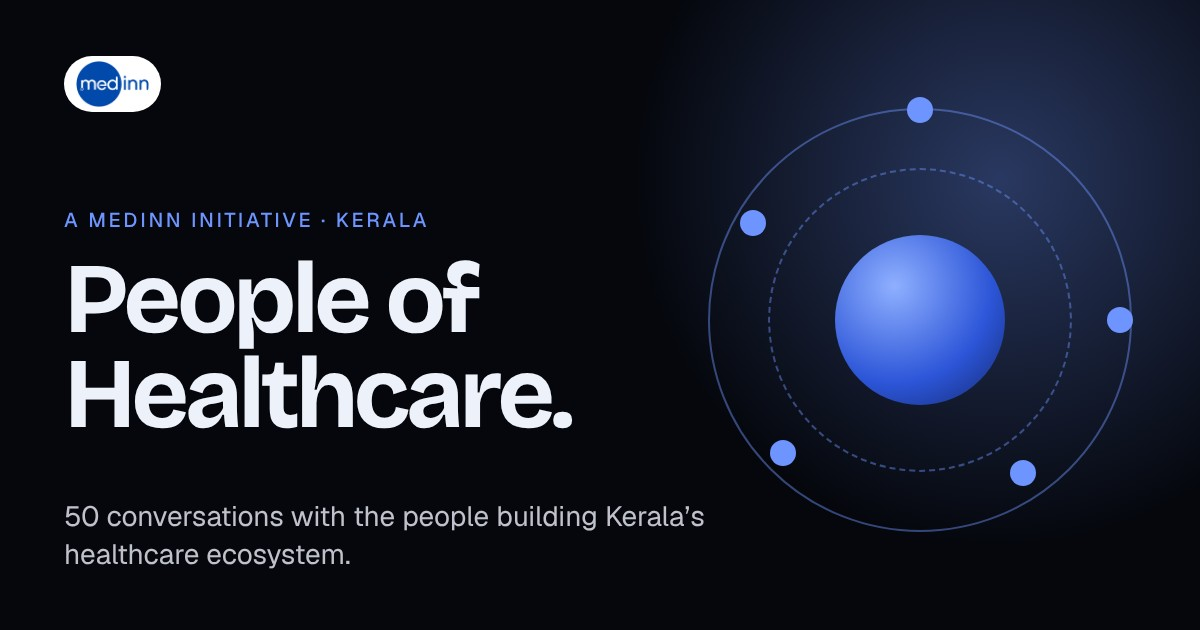
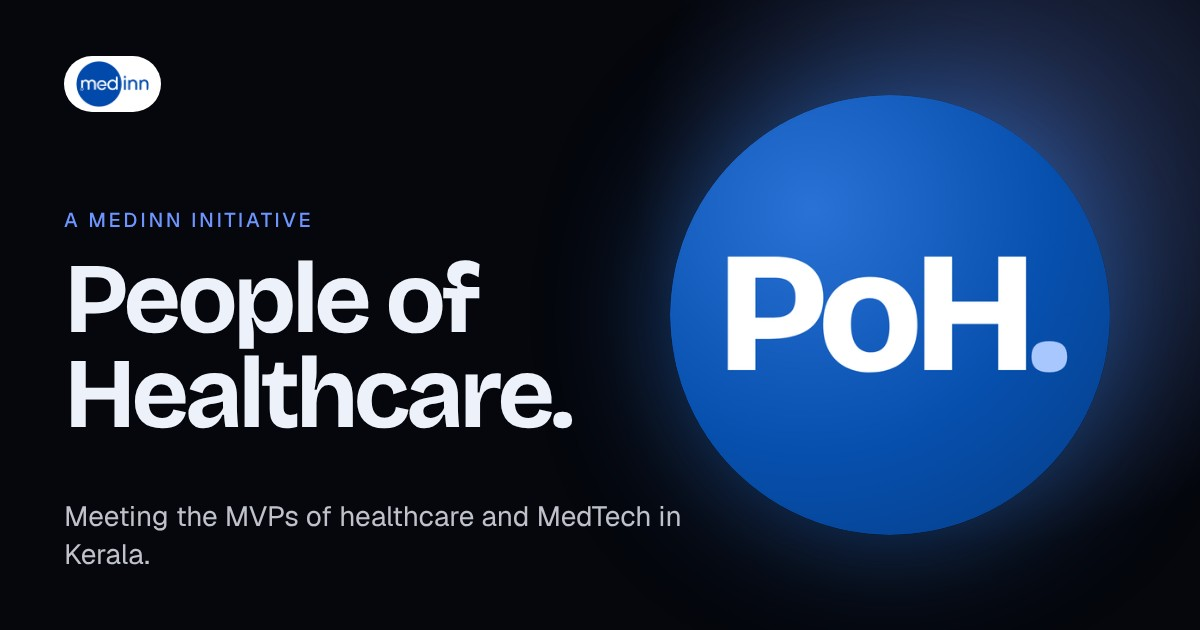
People of Healthcare: PoH monogram in Medinn colours, initiative-only header, real events in sections
Claude-Session: https://claude.ai/code/session_01W3TbEA9HA6hJVcBjfhZxyg

Changed region(s): [[0.0617, 0.0905, 0.9558, 0.9349], [0.2775, 0.3317, 0.37, 0.3619]]

diff --git a/people-of-healthcare.html b/people-of-healthcare.html
@@ -14,7 +14,7 @@
 <meta property="og:image:height" content="630">
 <meta property="og:type" content="article">
 <meta name="twitter:card" content="summary_large_image">
-<link rel="icon" href="medinn-logo.png">
+<link rel="icon" href="poh-mark.png">
 <link rel="preload" href="bricolage.woff2" as="font" type="font/woff2" crossorigin>
 <link rel="preload" href="geist.woff2" as="font" type="font/woff2" crossorigin>
 <link rel="stylesheet" href="story.css">
@@ -25,9 +25,16 @@
 .cover .bgimg.orb::after{display:none}
 .orb{position:absolute}.orb i{position:absolute;left:50%;top:46%;translate:-50% -50%;border-radius:50%;border:1px solid rgba(110,149,255,.45)}
 .orb .a{width:min(46vw,640px);aspect-ratio:1}.orb .b{width:min(33vw,460px);aspect-ratio:1;border-style:dashed}
-.orb .c{width:min(18vw,260px);aspect-ratio:1;border:0;background:radial-gradient(circle at 35% 30%,#8FB0FF,#2C55D8 60%,#14286E);box-shadow:0 0 90px rgba(110,149,255,.45)}
-.orb b{position:absolute;width:clamp(14px,1.8vw,26px);aspect-ratio:1;border-radius:50%;background:#6E95FF;translate:-50% -50%;box-shadow:0 0 24px rgba(110,149,255,.7)}
+.cover .bgimg.orb img.mk{position:absolute;left:50%;top:46%;translate:-50% -50%;width:min(26vw,380px);height:auto;object-fit:contain;border-radius:50%;box-shadow:0 0 110px rgba(43,114,214,.55)}
 @media (max-width:767px){.cover .bgimg.orb{inset:0;opacity:.35}}
+.roots{display:grid;grid-template-columns:repeat(2,minmax(0,1fr));gap:14px;margin-top:48px}
+.roots .card{overflow:hidden;display:flex;flex-direction:column}
+.roots img{width:100%;height:clamp(200px,22vw,300px);object-fit:cover}
+.roots .c{padding:22px 24px 26px}
+.roots h3{font-size:clamp(20px,1.9vw,25px);letter-spacing:-.025em;line-height:1.12;margin-top:4px}
+.roots p{margin-top:10px;color:var(--mut);font-size:15.5px;line-height:1.5}
+.roots .status{display:inline-block;font-family:var(--mono);font-size:11.5px;letter-spacing:.1em;text-transform:uppercase;padding:4px 10px;border-radius:999px;background:var(--acc-soft);color:var(--acc2);margin-bottom:10px}
+@media (max-width:767px){.roots{grid-template-columns:1fr}}
 .chips{display:flex;flex-wrap:wrap;gap:10px;margin-top:44px;max-width:52rem}
 .chips span{font-size:clamp(14px,1.3vw,16px);font-weight:600;padding:10px 16px;border-radius:999px;background:var(--surf);border:1px solid var(--line2)}
 .chips span.hl{background:var(--acc);color:var(--acc-tx);border-color:transparent}
@@ -78,11 +85,12 @@
 
 <main>
 <section class="cover" id="top">
- <div class="bgimg orb" aria-hidden="true"><i class="a"></i><i class="b"></i><i class="c"></i><b style="left:50%;top:6%"></b><b style="left:93%;top:50%"></b><b style="left:18%;top:80%"></b><b style="left:8%;top:30%"></b><b style="left:72%;top:86%"></b></div>
+ <div class="bgimg orb" aria-hidden="true"><i class="a"></i><i class="b"></i><img class="mk" src="poh-mark.png" alt="" width="512" height="512"></div>
  <div class="wrap">
-  <p class="to rv">A Medinn initiative &middot; Kerala</p>
+  <p class="to rv">A Medinn initiative</p>
   <h1 class="rv">People of Healthcare.</h1>
-  <p class="sub rv">Understanding the people building Kerala&rsquo;s healthcare ecosystem: 50 conversations with the founders, leaders and builders already shaping it.</p>
+  <p class="sub rv" style="font-size:clamp(22px,2.4vw,32px);color:var(--tx);max-width:17em;line-height:1.25;font-family:var(--hd);font-weight:500;letter-spacing:-.02em">Meeting the MVPs of healthcare and MedTech in Kerala.</p>
+  <p class="sub rv" style="margin-top:14px">50 conversations with the founders, leaders and builders already shaping Kerala&rsquo;s healthcare ecosystem.</p>
   <div class="acts rv"><a class="btn" href="#questions"><i class="ph ph-arrow-right" aria-hidden="true"></i> The questions we are asking</a><a class="btn ghost" href="#join">Nominate someone</a></div>
  </div>
 </section>
@@ -97,9 +105,20 @@
  </div>
 </section>
 
-<section class="ch alt" id="questions">
+<section class="ch alt" id="roots">
  <div class="wrap">
-  <div class="ch-h"><p class="k" data-n="2">The questions</p><h2 class="rv">How well do we actually understand this ecosystem?</h2></div>
+  <div class="ch-h"><p class="k" data-n="2">Where it comes from</p><h2 class="rv">The conversations have already begun.</h2>
+   <p class="lede rv">People of Healthcare grows out of meeting and learning from the people building healthcare, on stage, in sessions and one to one.</p></div>
+  <div class="roots">
+   <div class="card rv"><img src="medinn-insights-session.jpg" alt="Mr. John Kuriakose, founder of Dentcare Dental Lab, in a Medinn Insights online session" loading="lazy"><div class="c"><span class="status">Medinn Insights</span><h3>A session with Mr. John Kuriakose, founder of Dentcare Dental Lab</h3><p>&ldquo;His journey highlighted the transformative power of resilience, vision, and ethical entrepreneurship.&rdquo; Moderated by Dr. Sidharth Narayanan.</p></div></div>
+   <div class="card rv"><img src="healthtech-panel.jpg" alt="The HealthTech panel at the IEDC Summit, NIT Calicut" loading="lazy" style="object-position:50% 40%"><div class="c"><span class="status">On stage</span><h3>HealthTech panel, IEDC Summit, NIT Calicut</h3><p>Panelist on the HealthTech track in October 2024, on why healthcare needs engineers.</p></div></div>
+  </div>
+ </div>
+</section>
+
+<section class="ch" id="questions">
+ <div class="wrap">
+  <div class="ch-h"><p class="k" data-n="3">The questions</p><h2 class="rv">How well do we actually understand this ecosystem?</h2></div>
   <div class="qs">
    <div class="card rv"><span class="n">01</span><p>Who is manufacturing medical devices in Kerala?</p></div>
    <div class="card rv"><span class="n">02</span><p>Which companies are developing healthcare technologies?</p></div>
@@ -111,9 +130,9 @@
  </div>
 </section>
 
-<section class="ch" id="lenses">
+<section class="ch alt" id="lenses">
  <div class="wrap">
-  <div class="ch-h"><p class="k" data-n="3">50 conversations, five lenses</p><h2 class="rv">More than founder profiles.</h2>
+  <div class="ch-h"><p class="k" data-n="4">50 conversations, five lenses</p><h2 class="rv">More than founder profiles.</h2>
    <p class="lede rv">Each conversation is a profile of one person. Together, the 50 are meant to build an understanding of the whole ecosystem: its people, capabilities, limitations, opportunities and potential.</p></div>
   <div class="lens">
    <div class="card rv"><span class="n">01</span><h3>People</h3><p>Who is shaping healthcare in Kerala, and what have they built?</p></div>
@@ -125,9 +144,9 @@
  </div>
 </section>
 
-<section class="ch alt" id="who">
+<section class="ch" id="who">
  <div class="wrap">
-  <div class="ch-h"><p class="k" data-n="4">Who we will speak to</p><h2 class="rv">Not only MedTech founders.</h2></div>
+  <div class="ch-h"><p class="k" data-n="5">Who we will speak to</p><h2 class="rv">Not only MedTech founders.</h2></div>
   <div class="who">
    <ul class="rv">
     <li><span>Entrepreneurs and CEOs</span></li>
@@ -143,9 +162,9 @@
  </div>
 </section>
 
-<section class="ch" id="together">
+<section class="ch alt" id="together">
  <div class="wrap">
-  <div class="ch-h"><p class="k" data-n="5">Two initiatives, one ecosystem</p><h2 class="rv">From knowledge to opportunity.</h2>
+  <div class="ch-h"><p class="k" data-n="6">Two initiatives, one ecosystem</p><h2 class="rv">From knowledge to opportunity.</h2>
    <p class="lede rv">Medinn begins with two initiatives, because there are two sides to understanding healthcare: the people who will shape its future, and the people already building it.</p></div>
   <div class="two2">
    <div class="card rv"><p class="k">Initiative 01</p><h3>Before I Leave Medical College</h3><p>A personal editorial series on medical education and what it could enable, from the perspective of a student about to leave it. It surfaces the gaps and the unmet needs students and doctors see.</p></div>
@@ -158,9 +177,9 @@
  </div>
 </section>
 
-<section class="ch alt" id="join">
+<section class="ch" id="join">
  <div class="wrap">
-  <div class="ch-h"><p class="k" data-n="6">Take part</p><h2 class="rv">Know someone who should be among the 50?</h2>
+  <div class="ch-h"><p class="k" data-n="7">Take part</p><h2 class="rv">Know someone who should be among the 50?</h2>
    <p class="lede rv">Healthcare becomes stronger when the people who understand its problems are connected to the people who have the capabilities to solve them.</p></div>
   <div class="join">
    <div class="card rv"><i class="ph ph-sparkle" aria-hidden="true"></i><h3>Nominate someone</h3><p>A founder, leader, manufacturer or clinician-builder in Kerala&rsquo;s healthcare ecosystem whose work deserves to be understood.</p></div>
